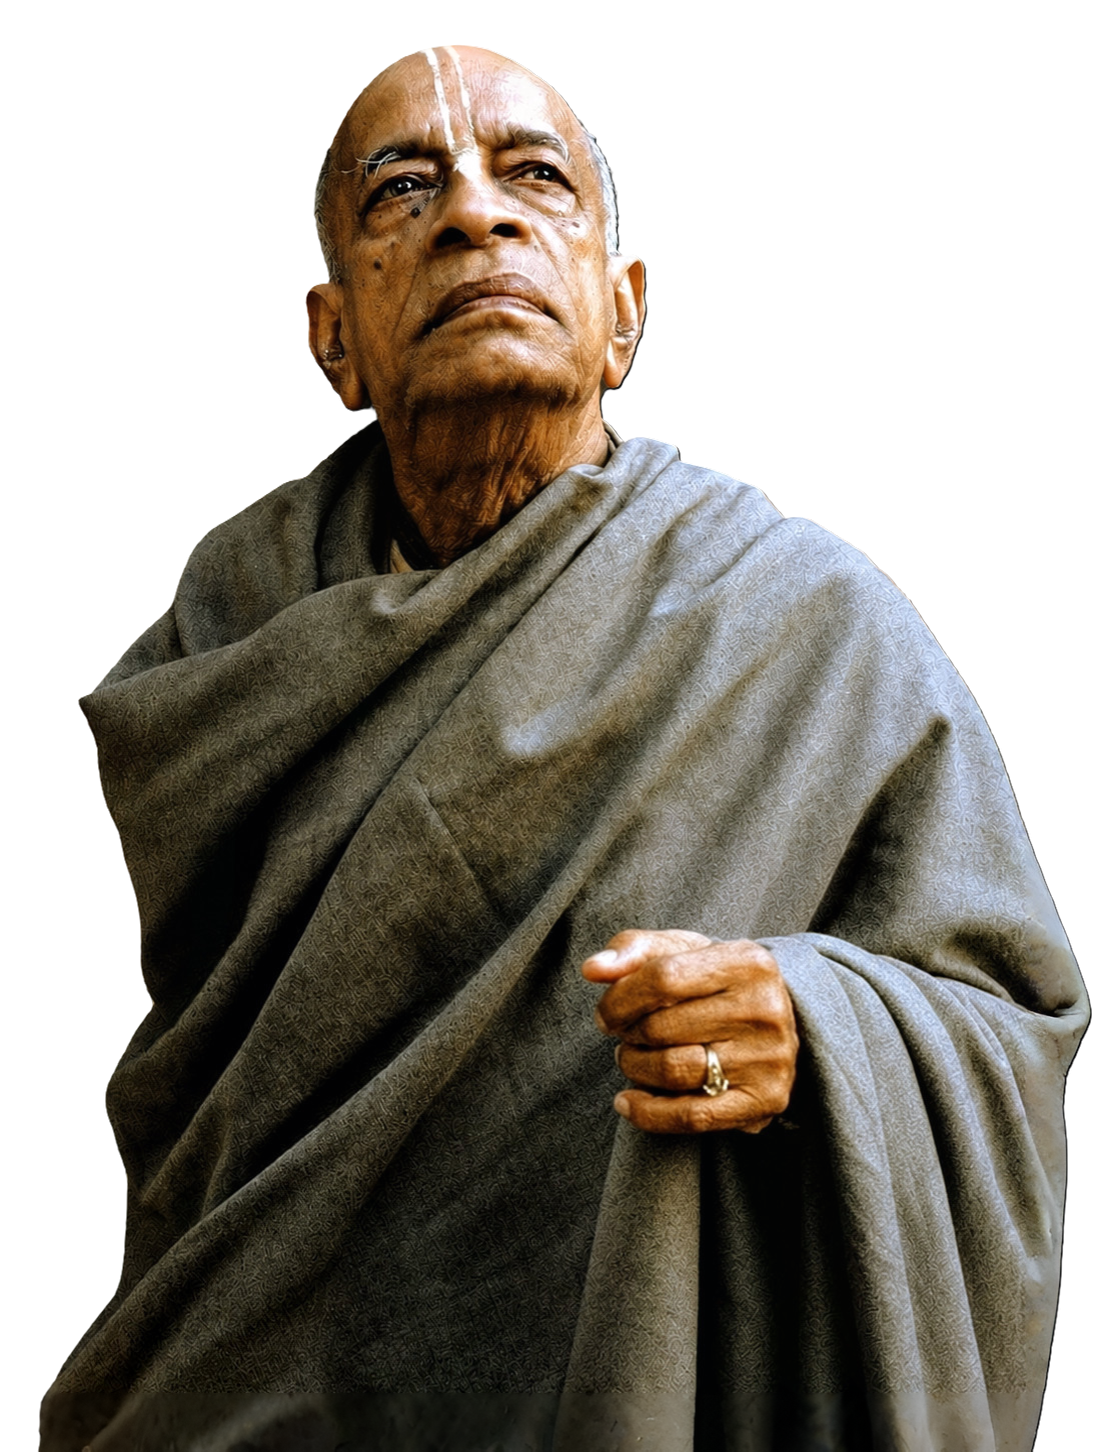
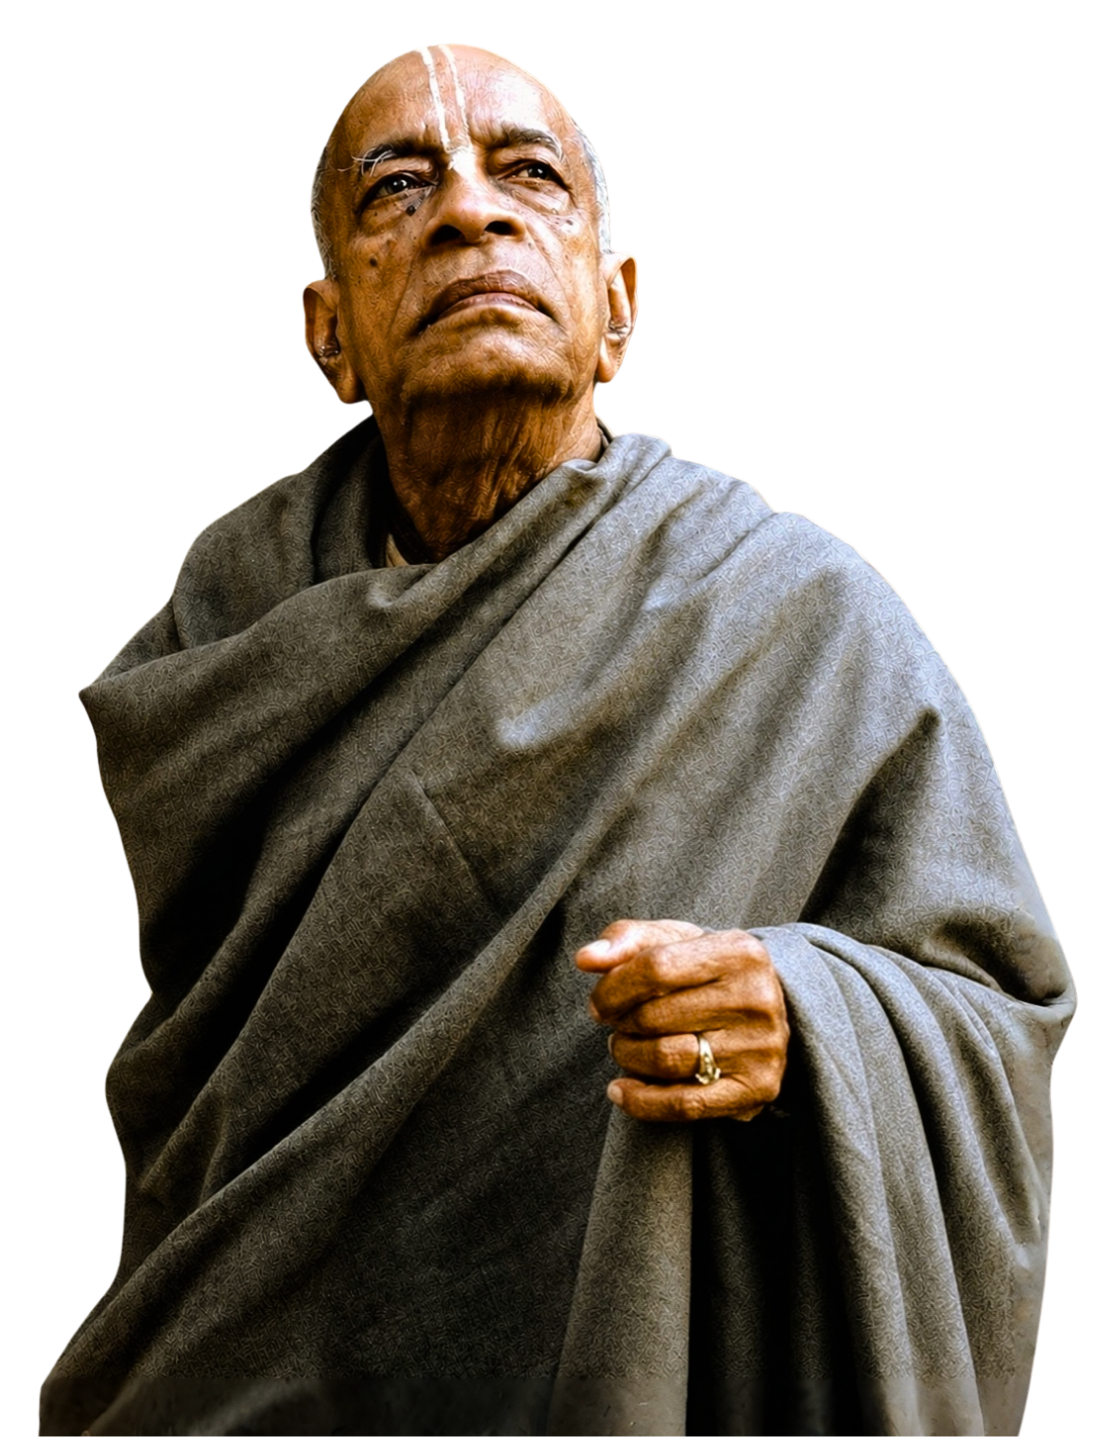
google look

diff --git a/index.html b/index.html
@@ -175,7 +175,6 @@
         /* The physical tap effect (snaps back instantly when released) */
         .btn-primary:active { transform: translateZ(0); opacity: 0.7; transition: opacity 0.1s ease; }
         .hero-image { position: absolute; bottom: 0; right: 5%; height: 85vh; max-height: 100%; width: auto; max-width: 45%; object-fit: contain; object-position: bottom right; display: block; z-index: 2; filter: drop-shadow(0 20px 40px rgba(0,0,0,0.4)); pointer-events: none; transition: opacity 0.5s ease; }
-        .rare-overlay { z-index: 3; opacity: 0; transition: opacity 1.5s ease-in-out; }
 
         /* --- NETFLIX-STYLE LIBRARY SECTION --- */
         .library { position: relative; width: 100%; padding: 180px 0 120px; z-index: 11; background-color: var(--bg-main); transition: background-color 0.4s ease; min-height: 100vh; }
@@ -413,9 +412,6 @@
                 <!-- Main Śrīla Prabhupāda Image -->
 				<img id="prabhupada-img" src="images/edited/prabhupada.webp" alt="Śrīla Prabhupāda" class="hero-image">
 
-				<!-- Rare Rādhā-Kṛṣṇa Overlay -->
-				<img id="prabhupada-rare-img" src="images/edited/prabhupada-rare.webp" alt="Śrī Śrī Rādhā-Kṛṣṇa Revelation" class="hero-image rare-overlay">
-
             </div>
         </header>
 
@@ -580,21 +576,7 @@
                 });
             });
 
-            // --- 2. EASTER EGG FADE LOGIC ---
-            const prabhupadaImage = document.getElementById('prabhupada-img');
-            function handleEasterEggRoll() {
-                const rareOverlay = document.getElementById('prabhupada-rare-img');
-                if (!rareOverlay) return;
-                const rareProbability = 1e-109;
-                const rollIsRare = Math.random() < rareProbability;
-                if (rollIsRare) {
-                    rareOverlay.style.opacity = '1';
-                } else {
-                    rareOverlay.style.opacity = '0';
-                }
-            }
-
-            // --- 3. LOCAL STORAGE THEME TOGGLE LOGIC ---
+            // --- 2. LOCAL STORAGE THEME TOGGLE LOGIC ---
             const themeBtn = document.getElementById('themeBtn');
             const root = document.documentElement;
             const icon = document.getElementById('theme-icon');
@@ -619,15 +601,14 @@
                     localStorage.setItem('vanisagara_theme', 'dark');
                     icon.innerHTML = sunSvg;
                 }
-                handleEasterEggRoll();
             });
 
-            // --- 4. SCROLL TO LIBRARY ---
+            // --- 3. SCROLL TO LIBRARY ---
             window.scrollToLibrary = function() {
                 document.getElementById('library-section').scrollIntoView({ behavior: 'smooth' });
             };
 
-            // --- 5. REAL-TIME DATABASE FETCH LOGIC ---
+            // --- 4. REAL-TIME DATABASE FETCH LOGIC ---
             function formatDownloadCount(num) {
                 if (num === 0) return "0 Downloads";
                 if (num === 1) return "1 Download"; 
@@ -704,7 +685,7 @@
             // Fire the fetch command as soon as the rest of the script is loaded
             fetchRealTimeDownloads();
 
-            // --- 6. MODAL LOGIC ---
+            // --- 5. MODAL LOGIC ---
             const netflixModal = document.getElementById('netflixModal');
             const infoModal = document.getElementById('infoModal');
             let currentActiveBook = null; 
@@ -850,7 +831,7 @@
                 }
             });
 
-            // --- 7. COLOR CYCLING LOGIC (ROYAL COLORS) ---
+            // --- 6. COLOR CYCLING LOGIC (ROYAL COLORS) ---
             const colorBtn = document.getElementById('colorBtn');
             const royalColors = [
                 '#5c4000', // Antique Gold
@@ -877,11 +858,9 @@
                 
                 document.documentElement.style.setProperty('--hero-glow', newColor);
                 localStorage.setItem('vanisagara_hero_glow', newColor);
-
-                handleEasterEggRoll();
             });
 		
-			// --- 8. MOBILE HAMBURGER MENU LOGIC ---
+			// --- 7. MOBILE HAMBURGER MENU LOGIC ---
             const hamburgerBtn = document.getElementById('hamburgerBtn');
             const mobileMenu = document.getElementById('mobileMenu');
             
@@ -914,7 +893,7 @@
                 });
             }
             
-            // --- 9. UNIVERSAL SCROLL MEMORY (The Perfected App Mode) ---
+            // --- 8. UNIVERSAL SCROLL MEMORY (The Perfected App Mode) ---
             
             // 1. Shut down the browser's native scroll engine so it stops fighting our code
             if ('scrollRestoration' in history) {
